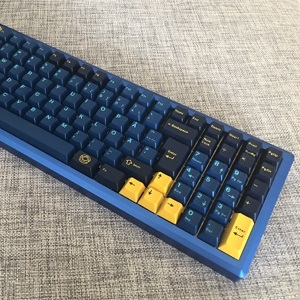
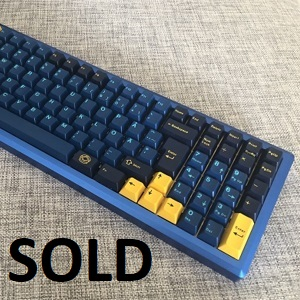
sold melody

Changed region(s): [[0.03, 0.78, 0.51, 0.96]]

diff --git a/index.html b/index.html
@@ -71,7 +71,6 @@
 	    <a href="preonicrev3.html">Preonic rev3</a>
 	    <a href="idb60xtproto.html">idb 60xt prototype</a>
 	    <a href="gregg.html">Gregg</a>
-	    <a href="melody96.html">Melody96</a>
 		<a href="ebony65.html">Ebony65</a>
 		</div>
 		</div>
@@ -367,26 +366,6 @@ It is wired using single core wiring and a Teensy 2.0 as MCU. It turned out grea
 						</a>
 					</li>
 					<li>
-						<a href="melody96.html" data-largesrc="assets/images/melody96/6.jpg" data-title="Melody96 blue and gold" data-description=
-						"
-						<b>Board: </b>Blue YMDK Melody 96 with gold bottom and brass weight</br>
-						<b>Layout: </b>96%</br>
-						<b>Mount: </b>Top mount</br>
-						<b>Plate: </b>Gold anodized aluminum</br>
-						<b>PCB: </b>YMD96 PCB</br>
-						<b>Switches: </b>Milky Gateron yellow. Lubed with GPL104</br>
-						<b>Keycaps: </b>GMK Nautilus and a The Eye Key Chameleon artisan</br>
-						<b>Aquired: </b>June 2018</br></br>
-						<b>Additional information:</b></br>
-This was aquired through Melody96 group buy by Ymdk. It has blue top, gold-anodized bottom and plate and a brass weight.
-I had an compatible Ymd96 PCB with mini USB from a previous buy so I used that and opted out of the USB C version.
-The keyboard is top mounted, meaning the plate screws into the top of the case and lastly the bottom is screwed in place. 
-						"
-						>
-							<img src="images/melody96.jpg" alt="melody96" width="300"/>
-						</a>
-					</li>
-					<li>
 						<a href="ebony65.html" data-largesrc="assets/images/ebony65/0.jpg" data-title="Ebony65" data-description=
 						"
 						<b>Board: </b>Custom Mexican Ebony</br>
@@ -504,6 +483,11 @@ It's a good little artisan-holder atleast. No additional pictures in gallery.
 					<li>
 						<a href="idbergo.html" data-title="idb Ergo" data-description=>
 							<img src="images/idbergo.jpg" alt="idb Ergo" width="300"/>
+						</a>
+					</li>
+					<li>
+						<a href="melody96.html" data-title="melody96" data-description=>
+							<img src="images/melody96.jpg" alt="melody96" width="300"/>
 						</a>
 					</li>
 				</ul>

diff --git a/melody96.html b/melody96.html
@@ -80,8 +80,8 @@ Got them to remove the PCB from the order. I still had a Ymd96 PCB since before 
 	   <br>
 	   <br>
 It’s a heavy case with the brass weight (removable) in the bottom. The keyboard is fitted with lubed (Krytox GPL104) milky Gateron yellows and GMK stabilizers.
-
 	   </p>
+	   <h3>This board was sold in Feb 2020</h3>
 	  </div>
 	</div>
 <!-- Main bulk section. Edit image links and folders, and desc-text
